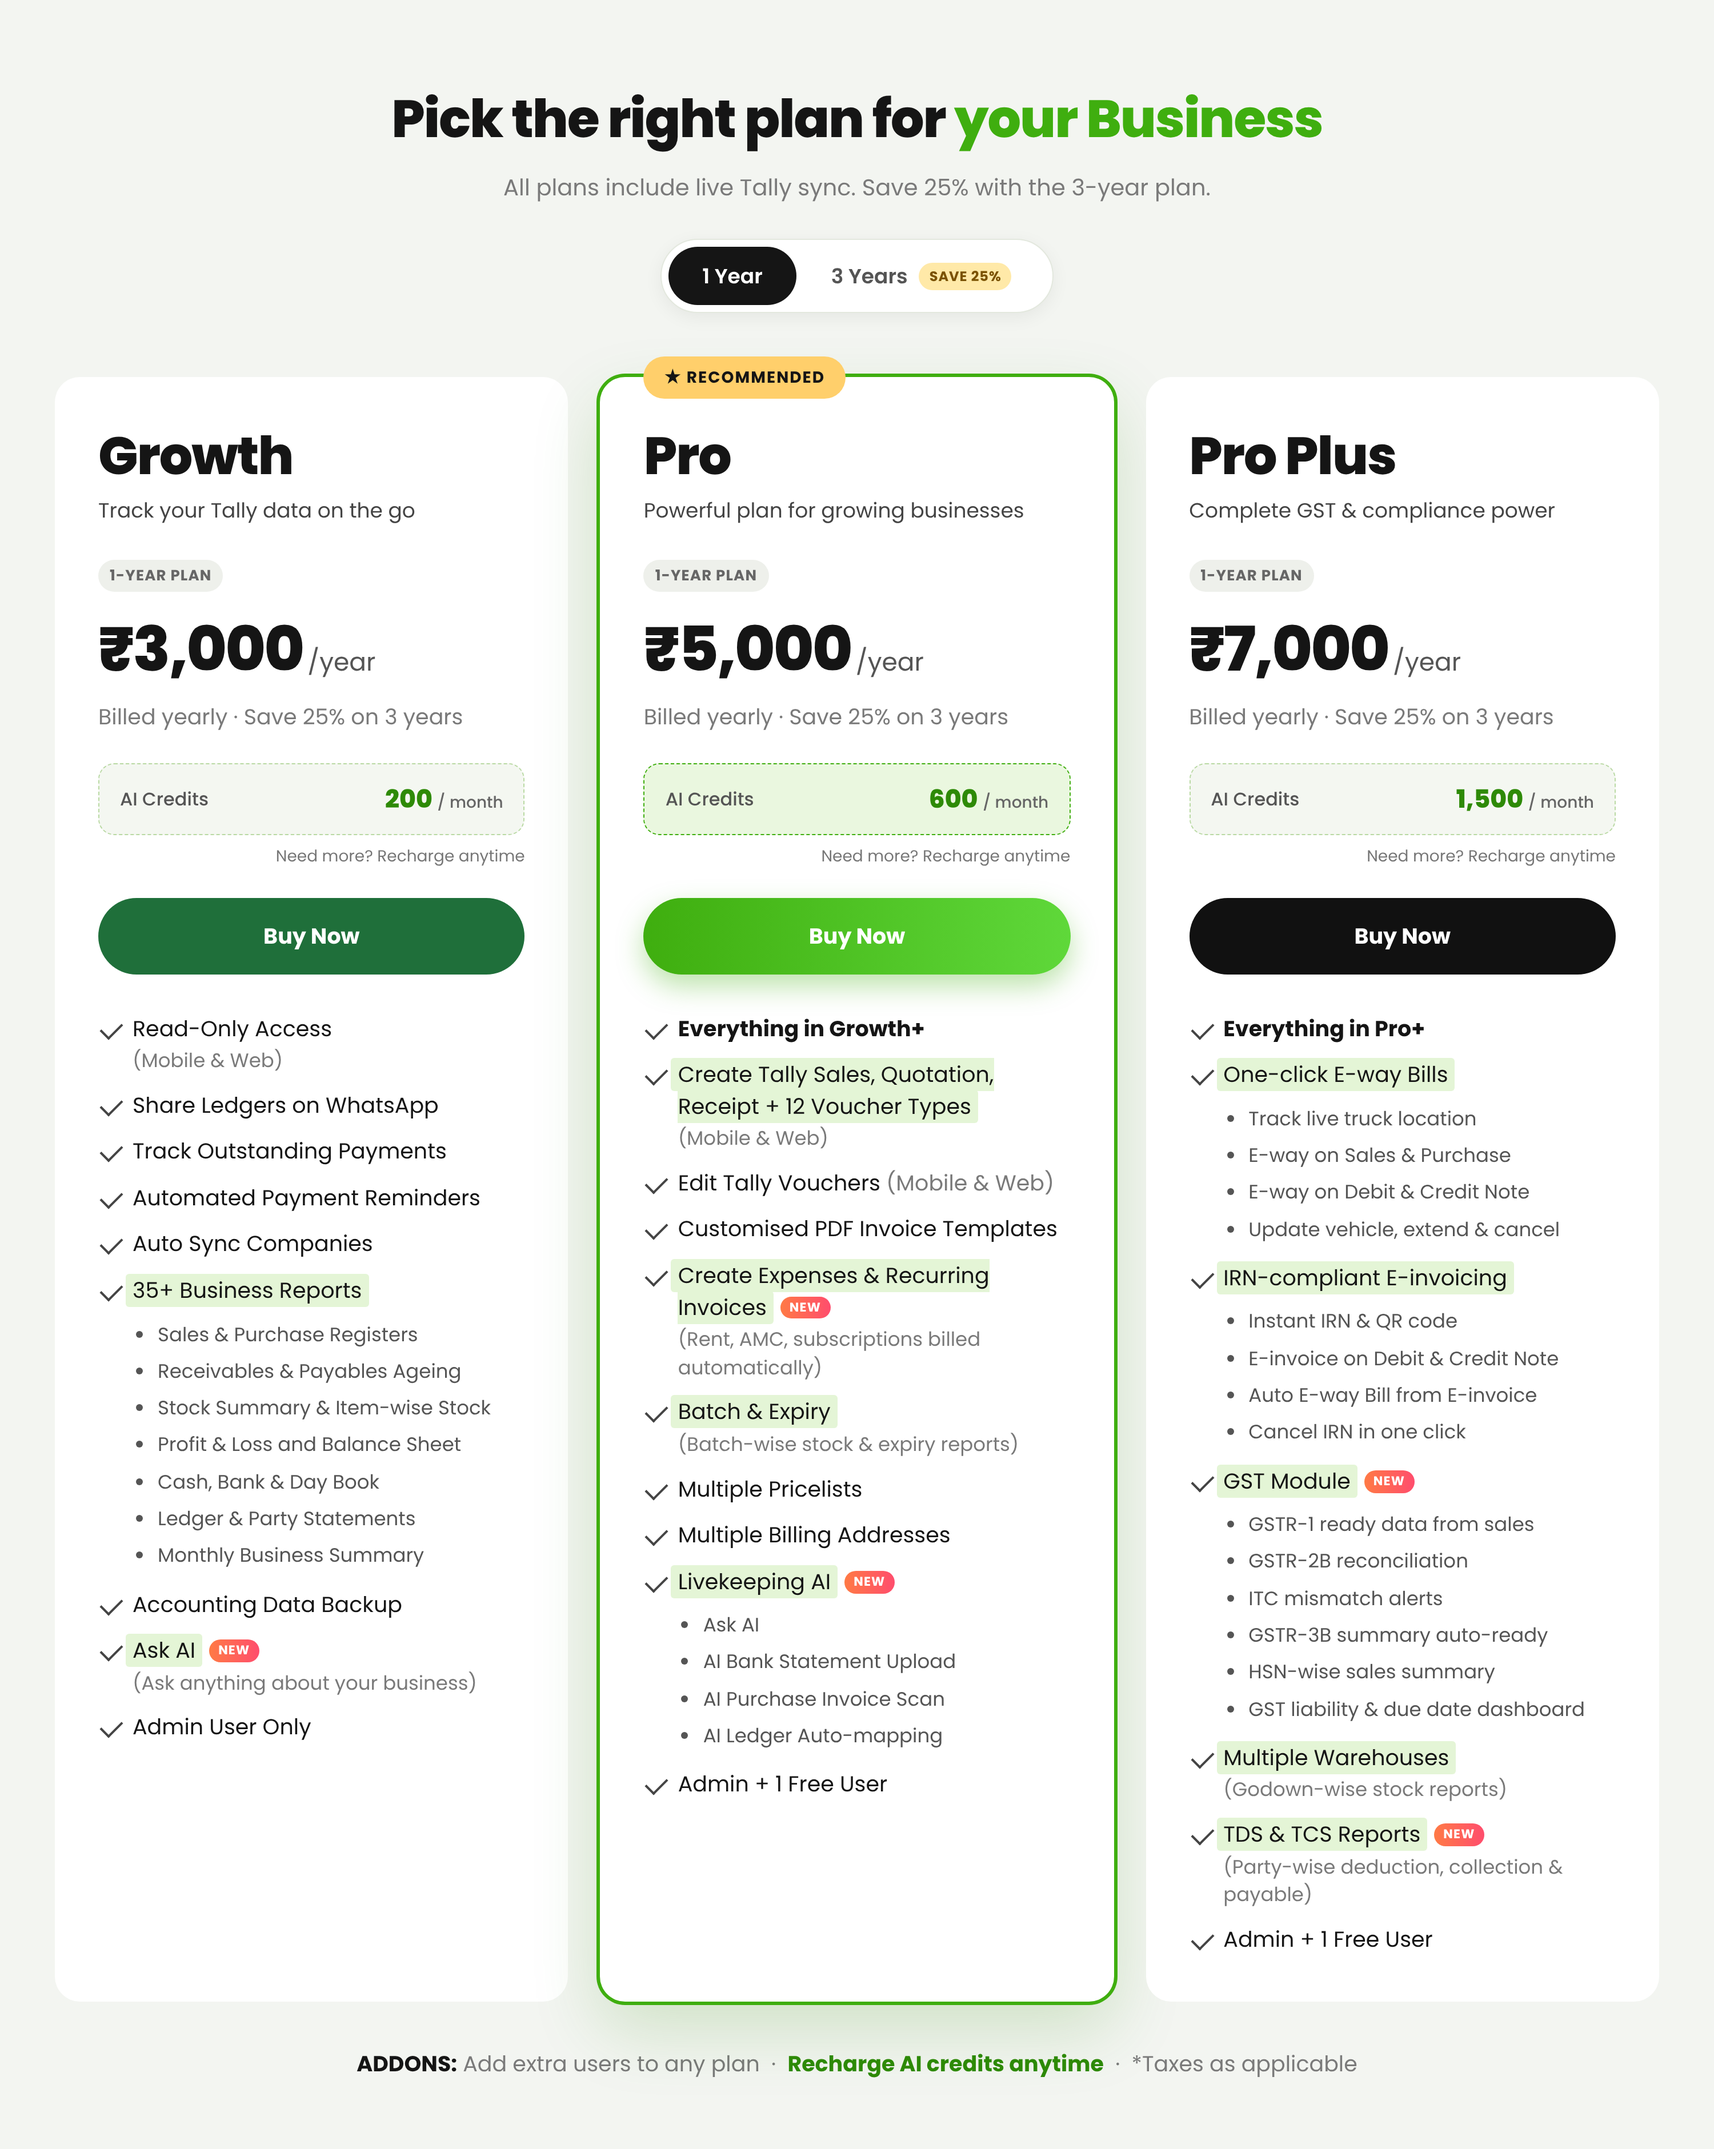
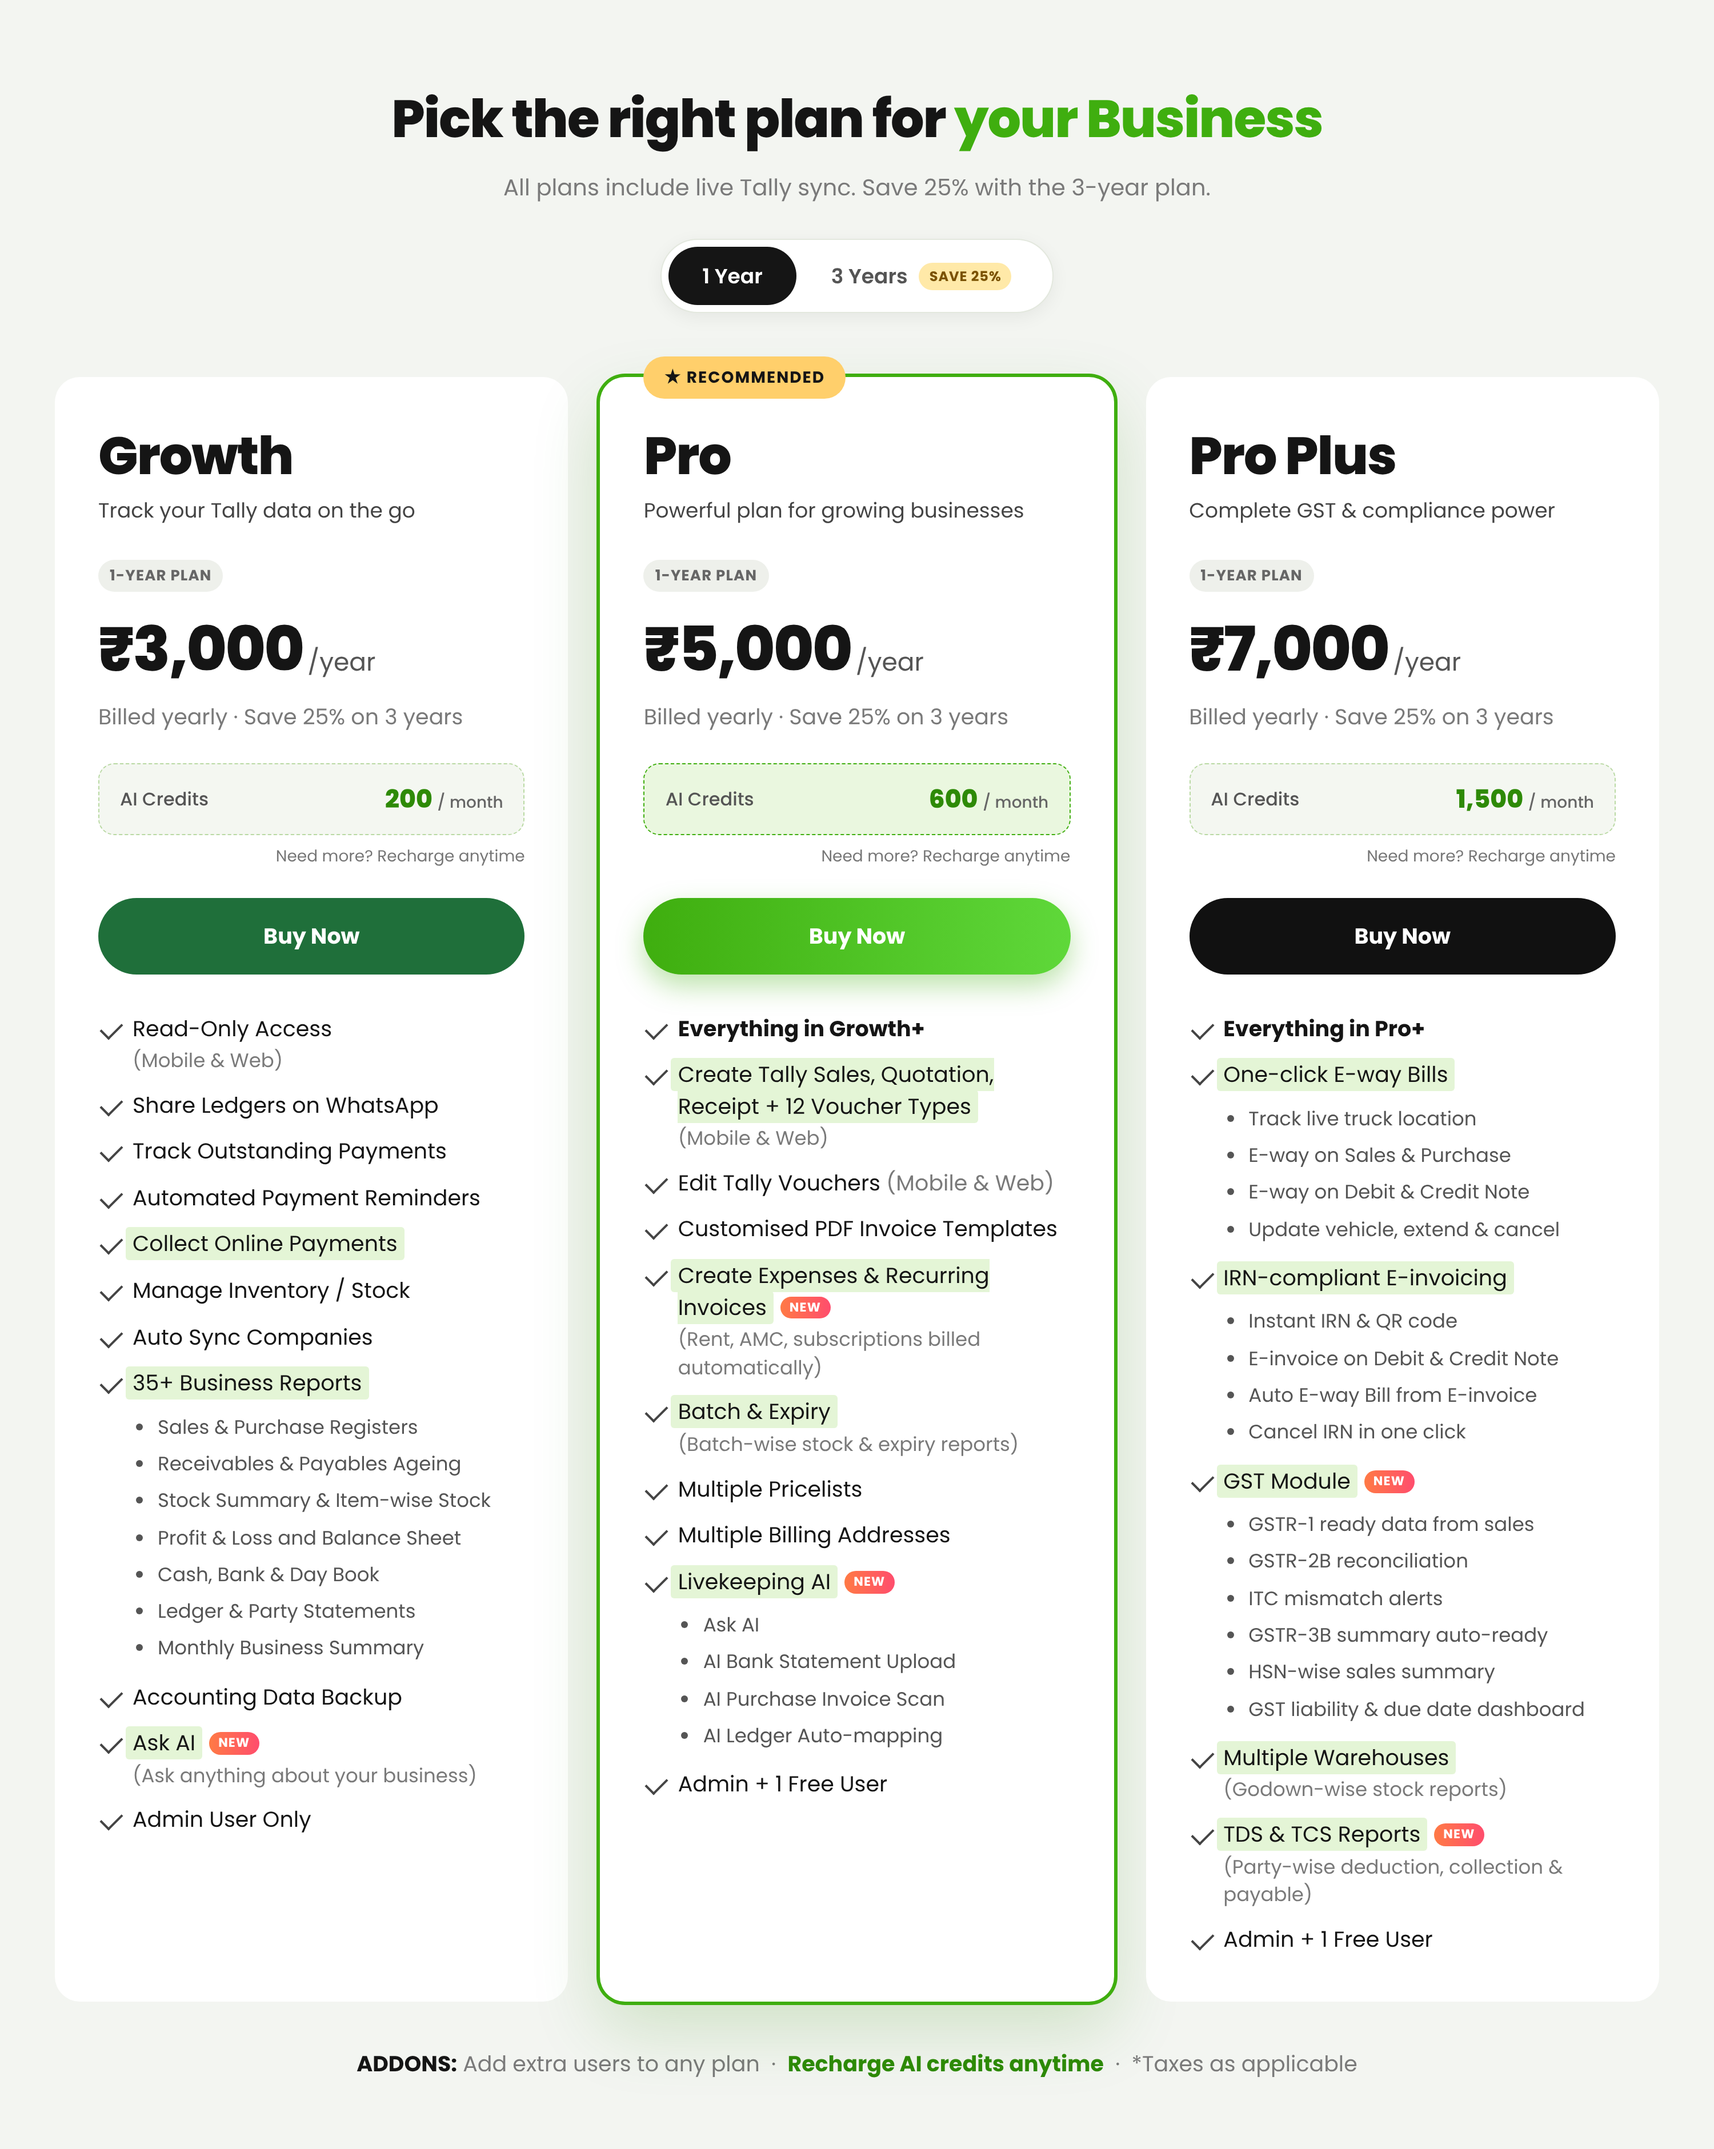
Pricing cards: online payments and inventory in Growth
Claude-Session: https://claude.ai/code/session_01TUFe6273V25gsCzznixesV

Changed region(s): [[0.062, 0.5598, 0.279, 0.8397]]

diff --git a/livekeeping-pricing/cards.html b/livekeeping-pricing/cards.html
@@ -122,6 +122,8 @@
         <li><div>Share Ledgers on WhatsApp</div></li>
         <li><div>Track Outstanding Payments</div></li>
         <li><div>Automated Payment Reminders</div></li>
+        <li><div><span class="hl">Collect Online Payments</span></div></li>
+        <li><div>Manage Inventory / Stock</div></li>
         <li><div>Auto Sync Companies</div></li>
         <li><div><span class="hl">35+ Business Reports</span>
           <ul class="dots">
